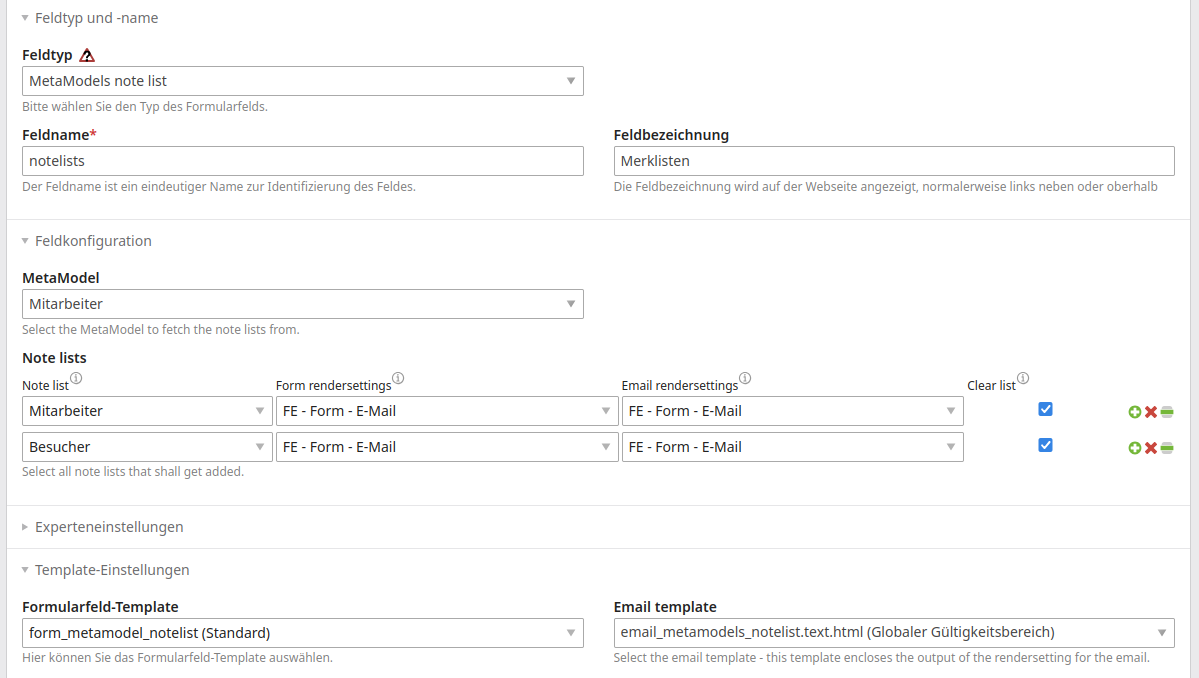
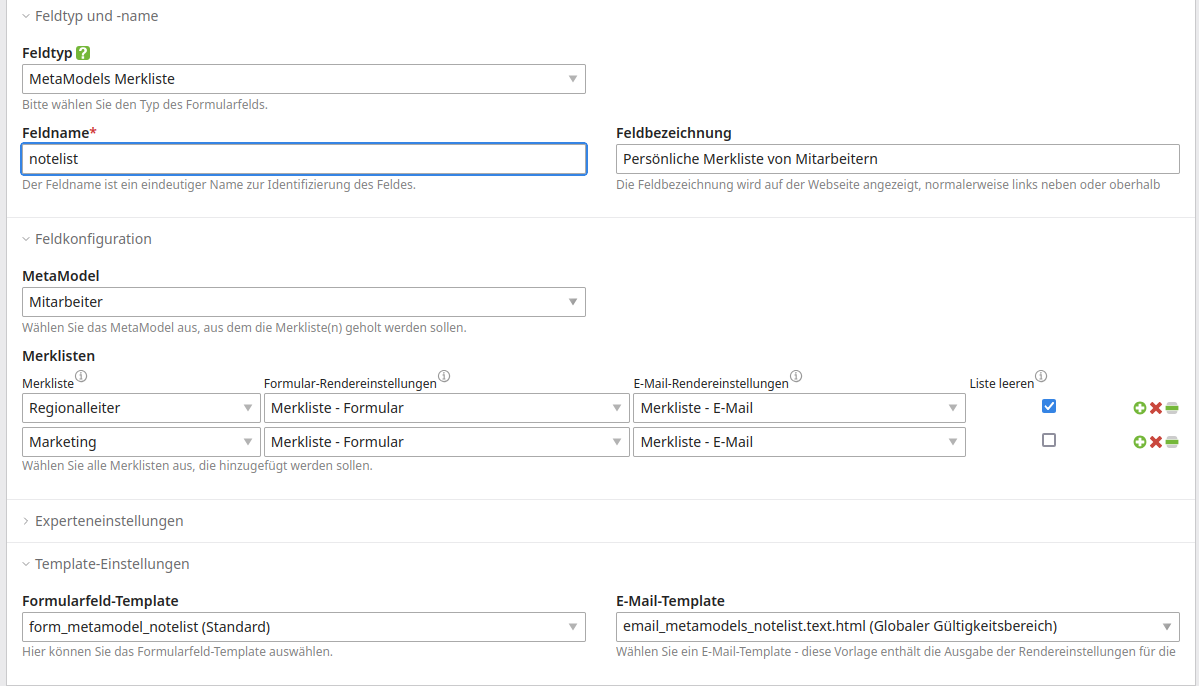
Fix NL

diff --git a/manual/extended/notelist.rst b/manual/extended/notelist.rst
@@ -142,37 +142,36 @@ gehören, sieht die Liste wie folgt aus:
 Datenanzeige und Übernahme im Formular
 --------------------------------------
 
-Im Formulargenerator steht ein neues Widget `MetaModels note list` zur Verfügung.
-Mit den Einstellungen wird sowohl die Anzeige im Formular als auch in der E-Mail
-gesteuert.
+Im Formulargenerator steht ein neues Widget "MetaModels Merkliste" zur Verfügung. Mit diesem Widget wird sowohl die
+Anzeige der Datensätze einer Merkliste im Formular als auch in der E-Mail gesteuert. Wurden für ein MetaModel mehrere
+Merklisten angelegt, so können auch mehrere ausgegeben werden.
 
-Dazu kann eine oder mehrere Merklisten aktiviert und jeweils eine Render-Einstellung
-für die FE-Ausgabe und die E-Mail-Ausgabe ausgewählt werden. Zusätzlich kann für
-jede Merkliste über die Checkbox "Clear list" bestimmt werden, ob nach der
-Formularverarbeitung die Liste geleert werden soll.
+Die Konfigurationsmöglichkeiten mussten in die möglichen Schnittstellen eines Contao-Widgets eingeschleust werden, so
+dass an mehreren Stellen Auswahlen getroffen werden müssen.
+
+In dem Bereich "Template-Einstellungen" gibt es jeweils für die Ausgabe im Formular (Formularfeld-Template) als auch
+in der E-Mail (E-Mail-Template) ein Template, welches als "Wrapper" die Ausgabeliste umschließt. In den Templates
+werden in einer Schleife alle Merklisten mit Ausgabe des Namens und darin alle Datensätze ausgegeben (siehe Bereich
+"Feldkonfiguration"). Zu beachten ist, dass das Template für das Formular ``form_metamodels_notelist.html5`` noch ein
+"altes" Template ist - hingegen für die E-Mail schon ein Twig-Template ``email_metamodels_notelist.text.html.twig``.
+
+Im Bereich "Feldkonfiguration" kann ausgewählt werden, welche Merkliste bzw. Merklisten ausgegeben werden sollen. Für
+die Listenausgabe im Formular als auch in der E-Mail müssen entsprechende Rendereinstellungen angelegt sein, welche
+die gewünschten Attribute ausgeben. Zusätzlich kann für jede Merkliste über die Checkbox "Liste leeren" bestimmt werden,
+ob nach der Formularverarbeitung die Liste geleert werden soll.
 
 |img_nodelist_form_widget|
 
-Für die unterschiedlichen Ausgabebereiche gibt es entsprechende Templates, die ineinander verschachtelt sind.
+Bei den Rendereinstellungen ist zu beachten, dass für die Ausgabe in einer E-Mail aktuell nur das Textformat unterstützt
+wird. Als Vorlage für die Rendereinstellungen stehen mit der Erweiterung die Dateien
+``metamodel_prerendered_notelists_form.html5`` und ``metamodel_prerendered_notelists_form.text`` zur Verfügung.
 
-Für die Ausgabe der Merkliste im Formularwidget bildet das Template in "Formularfeld-Template"
-``form_metamodels_notelist.html5`` den Wrapper für alle auszugebenden Merklisten und gibt je Liste den Namen und alle Items
-aus. Die Liste der Items wird über die Auswahl in "Form rendersettings" gesteuert - über das Rendersetting ist das
-übliche MM-Listentemplate (``metamodels_prerendered.html5``) eingebunden.
-
-Analog erfolgt die Ausgabe für die E-Mail. Das Wrapper-Template für alle auszugebenden Merklisten kann in "Email template"
-ausgewählt werden ``email_metamodels_notelist.text.html.twig``. Die Liste der Items wird über die Auswahl in
-"Email rendersettings" gesteuert - über das Rendersetting ist das übliche MM-Listentemplate eingebunden - aber hier wird
-die Text-Variante verwendet - also ``metamodels_prerendered.text``.
-
-Als Vorlage für die Rendersettings stehen mit der Erweiterung die Dateien ``metamodel_prerendered_notelists_form.html5``
-und ``metamodel_prerendered_notelists_form.text`` zur Verfügung. Mit den Templates werden auch automatisch die Daten mit
-ausgegeben, die zusätzlichen jedem Datensatz der Merkliste mitgegeben werden können (Payload). Das ist über ein
-:ref:`"Mini"-Formular <rst_extended_notelist_additional_form>` oder :ref:`Event-Listener <rst_extended_notelist_additional_events>`
-möglich.
+Mit denTemplates werden auch automatisch die Daten mit ausgegeben, die zusätzlichen jedem Datensatz der Merkliste
+mitgegeben werden können (Payload). Das ist über ein :ref:`"Mini"-Formular <rst_extended_notelist_additional_form>`
+oder :ref:`Event-Listener <rst_extended_notelist_additional_events>` möglich.
 
 In den Listentemplates ist neben den üblichen Knoten ``raw`` ``text`` auch ``notelists_names`` als Liste der
-Notelist-Namen vorhanden.
+Merklisten-Namen vorhanden.
 
 Der Payload wird über die Knoten ``notelists_payload_values`` ``notelists_payload_labels`` übermittelt.
 
@@ -182,8 +181,8 @@ vorhandenen Templates können wie üblich mit eigenen Varianten überschrieben w
 .. note:: Eine Bearbeitung z. B. Löschen der Elemente der Merkliste ist im Formular nicht möglich, da bei einem Reload
    der Seite die schon im Formular eingegebene Daten verloren gehen würden.
 
-Man kann vor der Ausgabe des Formulars eine Liste mit allen Elementen der Merkliste
-ausgeben und dort diese einzeln bearbeiten oder die gesamte Liste löschen - siehe Link.
+Man kann vor der Ausgabe des Formulars eine Liste mit allen Elementen der Merkliste ausgeben und dort diese einzeln
+bearbeiten oder die gesamte Liste löschen - siehe Link.
 
 .. code-block:: html
    :linenos:
@@ -192,9 +191,11 @@ ausgeben und dort diese einzeln bearbeiten oder die gesamte Liste löschen - sie
 
 |img_nodelist_form_fe_list_edit_items|
 
-Die Daten werden per E-Mail übertragen und können über das E-Mail-Template in der Ausgabe
-angepasst werden. Für die Versendung stehen die Contao-Formularoption oder auch das
-"Notification Center (NC)" zur Verfügung.
+Die Daten werden per E-Mail übertragen und können über das E-Mail-Template in der Ausgabe angepasst werden. Für die
+Versendung stehen die Contao-Formularoption oder auch das "Notification Center (NC)" zur Verfügung.
+
+Bei Verwendung des NC kann auch Textausgabe des E-Mail-Renderings in HTML konvertiert werden z. B. die Zeilenumbrüche
+in ``<br>``-Tags.
 
 |img_notelist_email_list|
 
